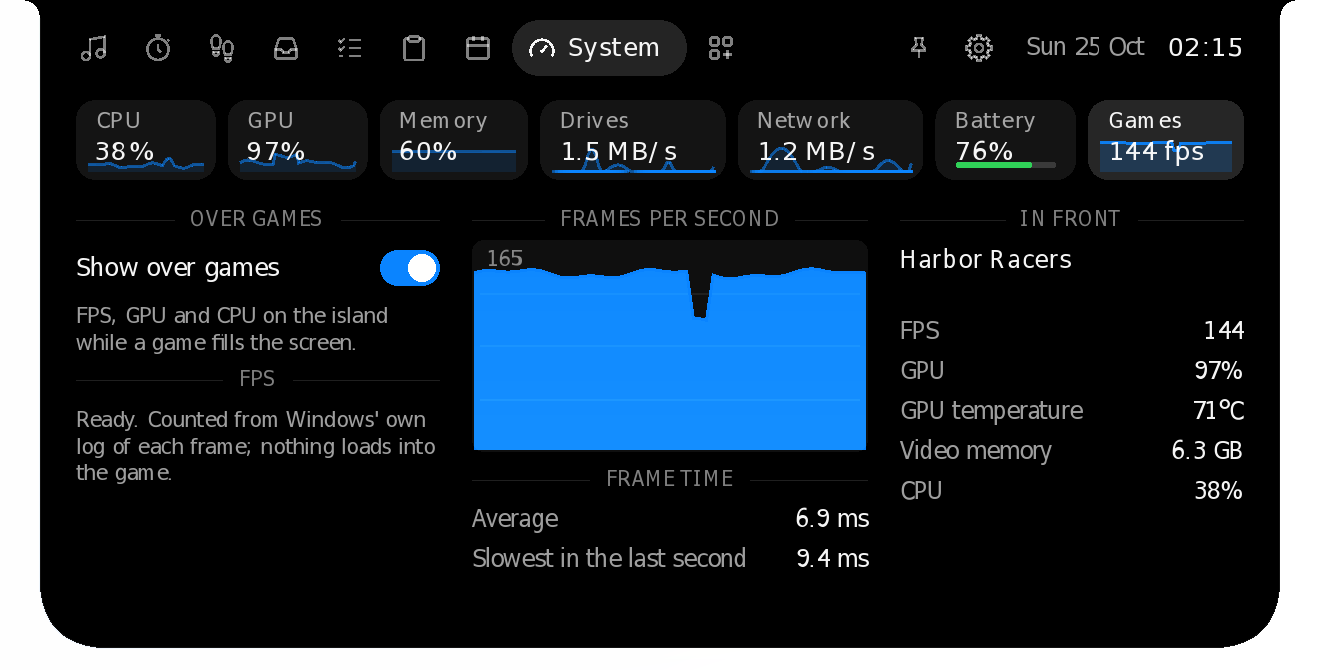
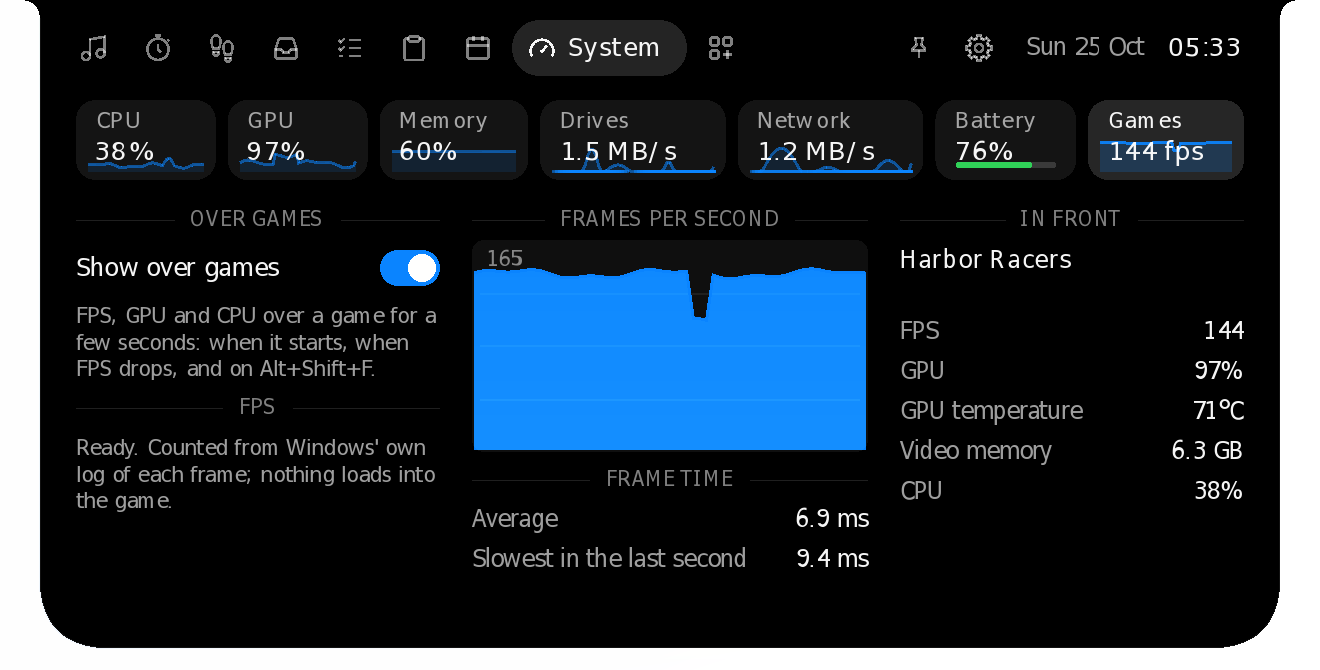
Release 0.1.20

Changed region(s): [[0.0621, 0.597, 0.3417, 0.7761], [0.0621, 0.4478, 0.3417, 0.5672], [0.9008, 0.0597, 0.9629, 0.0896]]

diff --git a/site/index.html b/site/index.html
@@ -302,7 +302,7 @@ footer a { color: var(--muted); }
           </a>
           <a class="btn btn-line" href="https://github.com/lucacadalora/poni">Source on GitHub</a>
         </div>
-        <p class="small">Free and open source (MIT) · Windows <span data-release="size">6.3&nbsp;MB</span>, Mac <span data-release="mac-size">10.8&nbsp;MB</span> · No account needed · <a data-release="notes" href="https://github.com/lucacadalora/poni/releases/latest">What's new in <span data-release="version">0.1.19</span></a></p>
+        <p class="small">Free and open source (MIT) · Windows <span data-release="size">2.4&nbsp;MB</span>, Mac <span data-release="mac-size">10.8&nbsp;MB</span> · No account needed · <a data-release="notes" href="https://github.com/lucacadalora/poni/releases/latest">What's new in <span data-release="version">0.1.20</span></a></p>
         <div class="look-switch" role="group" aria-label="Island look">
           <button type="button" data-look="classic" aria-pressed="true"><span class="dot"></span>Classic</button>
           <button type="button" data-look="oyen" aria-pressed="false"><span class="dot dot-oyen"></span>Oyen theme</button>
@@ -435,15 +435,15 @@ footer a { color: var(--muted); }
         </div></div>
         <div>
           <h3>Music, with the words</h3>
-          <p>Controls for whatever is playing: Spotify, Apple Music, YouTube in your browser, or any app that shows up in Windows' media controls. Lyrics scroll in time with the song, from the free LRCLIB library, or Apple Music's own synced lyrics if you have a subscription. YouTube videos find theirs too, even when the title carries subtitle tags or puts the song name first. After an intro or a break, the waiting dots fold away the moment the next line starts. Drag the time bar to jump anywhere in a song: the times follow as you slide, and it jumps when you let go.</p>
+          <p>Controls for whatever is playing: Spotify, Apple Music, YouTube in your browser, or any app that shows up in Windows' media controls. Lyrics scroll in time with the song, from the free LRCLIB library, or Apple Music's own synced lyrics if you have a subscription. YouTube videos find theirs too, even when the title carries subtitle tags or puts the song name first. After an intro or a break, the waiting dots fold away the moment the next line starts. Drag the time bar to jump anywhere in a song: the times follow as you slide, and it jumps when you let go. Since 0.1.20 that works with Apple Music too, and so does Back: the island uses Apple Music's own slider and back button. Lyrics glide into place instead of stepping a pixel at a time.</p>
           <img class="oyen-pose" src="brand/art/poses/oyen-music.webp" alt="Oyen in headphones" width="480" height="560" loading="lazy">
         </div>
       </div>
       <div class="music flip">
         <div>
-          <p class="eyebrow">New in 0.1.7 · Better Japanese in 0.1.15</p>
+          <p class="eyebrow">New in 0.1.7 · Better Japanese in 0.1.15 · Japanese readings add-on in 0.1.20</p>
           <h3>Read along in Korean, Japanese and Chinese</h3>
-          <p>Like Apple Music's Show Pronunciation, each word of a lyric line gets its reading in Latin letters, set small underneath: the syllables for Korean, romaji for Japanese and pinyin with tone marks for Chinese. Since 0.1.12 every Japanese line gets romaji on any PC: Oyen Poni reads kanji with its own built-in dictionary, with nothing to install and nothing leaving your PC. Since 0.1.15 it reads closer to how the words are sung: numbers with their counters (二人 futari, 一歩 ippo), は as "wa" after every word (心には kokoro ni wa), and words like 愛おしい and 失くす. Turn it off in Settings or the tray menu.</p>
+          <p>Like Apple Music's Show Pronunciation, each word of a lyric line gets its reading in Latin letters, set small underneath: the syllables for Korean, romaji for Japanese and pinyin with tone marks for Chinese. Japanese kanji are read with Windows' own reading analyzer. On PCs without Windows' Japanese data, kana lines read right away and the Music page offers Japanese readings, a 3.8 MB add-on that reads every kanji line. Since 0.1.15 it reads closer to how the words are sung: numbers with their counters (二人 futari, 一歩 ippo), は as "wa" after every word (心には kokoro ni wa), and words like 愛おしい and 失くす. Turn it off in Settings or the tray menu.</p>
         </div>
         <div class="sky"><div class="island">
           <img class="look-classic" src="assets/shots/classic/page-media-ko.webp" alt="The Music page with Korean lyrics, each word's reading in Latin letters set small underneath" width="660" height="227" loading="lazy">
@@ -514,13 +514,13 @@ footer a { color: var(--muted); }
       </div>
       <div class="music" id="addons">
         <div class="sky"><div class="island">
-          <img class="look-classic" src="assets/shots/classic/page-addons.webp" alt="The Add-ons tab: Prayer times, 1.9 MB, with its switch off" width="660" height="159" loading="lazy">
-          <img class="look-oyen" src="assets/shots/oyen/page-addons.webp" alt="The Add-ons tab in the Oyen theme" width="660" height="159" loading="lazy">
+          <img class="look-classic" src="assets/shots/classic/page-addons.webp" alt="The Add-ons tab: Prayer times (1.9 MB) and Japanese readings (3.8 MB), each with its switch off" width="660" height="211" loading="lazy">
+          <img class="look-oyen" src="assets/shots/oyen/page-addons.webp" alt="The Add-ons tab in the Oyen theme" width="660" height="211" loading="lazy">
         </div></div>
         <div>
           <p class="eyebrow">New in 0.1.17</p>
           <h3>Add-ons: download only what you use</h3>
-          <p>The + at the end of the tabs lists features that aren't in the download. Switch one on and it downloads then, from this project's releases, each file checked against the fingerprint built into the app. Switch it off and its files are deleted. Prayer times is the first.</p>
+          <p>The + at the end of the tabs lists features that aren't in the download. Switch one on and it downloads then, from this project's releases, each file checked against the fingerprint built into the app. Switch it off and its files are deleted. Prayer times was the first, and since 0.1.20 Japanese readings (3.8 MB) is one too.</p>
         </div>
       </div>
       <div class="music flip" id="phone-drop">
@@ -561,7 +561,7 @@ footer a { color: var(--muted); }
         <div>
           <p class="eyebrow">New in 0.1.11 · Redone in 0.1.17 · On the Mac in 0.1.19</p>
           <h3>System: your PC at a glance</h3>
-          <p>CPU, GPU, memory, drives, network and battery in rings and charts: each core's load with performance and efficiency cores apart, the graphics card's engines and memory, memory pressure and what fills memory, read, write, download and upload speeds, and the processes using the most. Since 0.1.17 it reads Windows' own kernel counters and keeps the last minute while the page is closed, so the charts are full the moment it opens. No driver, no admin rights, and nothing leaves your PC. On a Mac it reads macOS's own counters the way Stats does, and rests while the screen is asleep or the Mac is locked.</p>
+          <p>CPU, GPU, memory, drives, network and battery in rings and charts: each core's load with performance and efficiency cores apart, the graphics card's engines and memory, memory pressure and what fills memory, read, write, download and upload speeds, and the processes using the most. Since 0.1.17 it reads Windows' own kernel counters and keeps the last minute while the page is closed, so the charts are full the moment it opens. Since 0.1.20 that minute rests while your PC is locked, the screen is off or battery saver is on. No driver, no admin rights, and nothing leaves your PC. On a Mac it reads macOS's own counters the way Stats does, and rests while the screen is asleep or the Mac is locked.</p>
         </div>
         <div class="sky"><div class="island">
           <img class="look-classic" src="assets/shots/classic/page-system.webp" alt="The System page: a strip of every part's live value, the CPU's rings and details, a minute of history, each core's load and the processes using the most" width="660" height="335" loading="lazy">
@@ -582,10 +582,10 @@ footer a { color: var(--muted); }
       </div>
       <div class="music flip" id="games">
         <div>
-          <p class="eyebrow">New in 0.1.18</p>
+          <p class="eyebrow">New in 0.1.18 · Peeks instead of staying in 0.1.20</p>
           <h3>Show over games: FPS, GPU and CPU</h3>
-          <p>While a game fills the screen in borderless full-screen, the island becomes a small readout: frames per second, the graphics card's load and temperature, and the CPU's load, once a second. Hover it and it opens as usual. Switch it on in <b>System</b> › <b>Games</b>, or right-click the island › <b>In full-screen apps</b> › <b>Show FPS, GPU and CPU over games</b>.</p>
-          <p>Frames are counted the way Intel's PresentMon and Xbox Game Bar count them, from Windows' own log of each frame a game shows. Nothing is loaded into the game, so anti-cheat has nothing to see. DirectX 9 to 12, Vulkan and OpenGL. The first time, Windows asks once for an admin OK, as Game Bar's FPS counter does, and FPS shows from your next sign-in. Nothing runs while no game is in front.</p>
+          <p>While a game fills the screen in borderless full-screen, the island becomes a small readout: frames per second, the graphics card's load and temperature, and the CPU's load. It shows for a few seconds when the game comes to the front, when the frame rate drops sharply, and whenever you press <b>Alt+Shift+F</b>, then gets out of the way: any window over a borderless game makes Windows combine the two before they reach the screen, which costs about a frame, so with the island gone the game's frames go straight to the screen again. Switch it on in <b>System</b> › <b>Games</b>, or right-click the island › <b>In full-screen apps</b> › <b>Show FPS, GPU and CPU over games</b>.</p>
+          <p>Frames are counted the way Intel's PresentMon and Xbox Game Bar count them, from Windows' own log of each frame a game shows. Nothing is loaded into the game, so anti-cheat has nothing to see. DirectX 9 to 12, Vulkan and OpenGL. The first time, Windows asks once for an admin OK, as Game Bar's FPS counter does, and FPS shows from your next sign-in. Over a full-screen app, Glass draws smoked glass instead of copying the screen.</p>
         </div>
         <div class="sky"><div class="island">
           <img class="look-classic" src="assets/shots/classic/game-stats.webp" style="width:291px" alt="The island over a game: 144 fps, GPU 97% at 71°, CPU 38%" width="291" height="33" loading="lazy">
@@ -727,7 +727,7 @@ footer a { color: var(--muted); }
       <div class="facts">
         <div class="fact"><h3>No account needed</h3><p>No sign-up and no tracking. Tasks, shelf and focus history are files in your own user folder.</p></div>
         <div class="fact"><h3>Clipboard in memory</h3><p>Copied text is never written to disk, and anything a password manager marks private is skipped.</p></div>
-        <div class="fact"><h3>Smooth and light</h3><p>Drawn on your graphics card in step with your screen's refresh rate (60, 144 or 240 Hz). Native Rust, no web view, and nothing drawn while nothing moves. Keeping the System page's last minute takes about a third of a millisecond each second, and the tray menu turns it off.</p></div>
+        <div class="fact"><h3>Smooth and light</h3><p>Drawn on your graphics card in step with your screen's refresh rate (60, 144 or 240 Hz). Native Rust, no web view, and nothing drawn while nothing moves. Keeping the System page's last minute takes about a third of a millisecond each second and rests while you're away, and the tray menu turns it off.</p></div>
       </div>
     </div>
   </section>

diff --git a/docs/release-notes/v0.1.20.md b/docs/release-notes/v0.1.20.md
@@ -1,0 +1,19 @@
+**Show over games no longer slows games down.** In 0.1.18 the readout stayed over the game, and any window over a borderless game makes Windows combine the two before they reach the screen, which costs about a frame of delay. Now the island hides over the game, so its frames go straight to the screen again, and the readout shows for a few seconds: when a game comes to the front, when its frame rate drops sharply, and whenever you press **Alt+Shift+F** (press it again to hide it sooner). Alt+Shift+F belongs to Oyen Poni only while a game is in front. Glass no longer copies the screen while a full-screen app is in front; it draws smoked glass there.
+
+**A smaller download.** The Windows installer is about 2.4 MB, down from 6.3 MB. The Japanese reading dictionary moved out of the app into an add-on, and the parts that run only for moments, such as phone pairing and QR codes, are now built for size. The Mac download is unchanged.
+
+**Japanese readings, only if you need them.** Kanji are read with Windows' own reading analyzer. On a PC without Windows' Japanese data, kana lines still read right away, and the Music page offers Japanese readings under the lyrics: a 3.8 MB add-on that reads every kanji line. One click downloads it. It's in the Add-ons tab too, and switching it off there deletes the file. PCs where Windows reads Japanese never see the offer. On a Mac nothing changes: the dictionary stays built in.
+
+**Apple Music's progress bar and back button work.** Apple Music for Windows tells Windows' media controls that seeking and going back are off, so the island's bar did nothing and Back was greyed out. With Apple Music, the island now moves Apple Music's own progress slider and presses its own back button: drag the bar, click a lyric line to jump to it, or press Back.
+
+**Lyrics and lists glide.** On Windows, moving text used to land on whole pixels, so a line easing into place stood still, then jumped a pixel. Lyrics and the Tasks, Clipboard and Oyenza lists now glide between pixels and look exactly as before once they stop. On Windows and the Mac, the line being sung grows smoothly instead of in small steps, and each lyric scroll starts gently.
+
+**The System page rests while you're away.** Its last minute of history (a light reading once a second) stops while your PC is locked, the screen is off or battery saver is on, and starts a fresh minute when you're back.
+
+**Install:** download `Oyen-Poni-Setup.exe` and run it. It installs just for you (no admin rights) and can start with Windows. Or unzip the portable zip and run `Poni\poni.exe`.
+
+**On a Mac:** open `Oyen-Poni-Mac.dmg` and drag Oyen Poni into Applications. It isn't signed with an Apple Developer ID yet, so the first time macOS warns you, click **Done**, then open **System Settings → Privacy & Security** and click **Open Anyway**.
+
+**Upgrading from 0.1.x:** run the new installer. It upgrades in place and keeps your settings and data (`%APPDATA%\Poni`).
+
+The build isn't code-signed yet, so Windows SmartScreen may say "Windows protected your PC". Click **More info → Run anyway**.

diff --git a/README.md b/README.md
@@ -115,7 +115,7 @@ On a MacBook, the island lives around the camera notch: the album art on one sid
 
 <table>
 <tr>
-<td align="center" width="25%"><h3>6.3 MB</h3>download on Windows</td>
+<td align="center" width="25%"><h3>2.4 MB</h3>download on Windows</td>
 <td align="center" width="25%"><h3>Rust</h3>native code, no web view, no runtime</td>
 <td align="center" width="25%"><h3>60–240 Hz</h3>drawn on the GPU, in step with your screen</td>
 <td align="center" width="25%"><h3>0</h3>accounts, ads or analytics</td>
